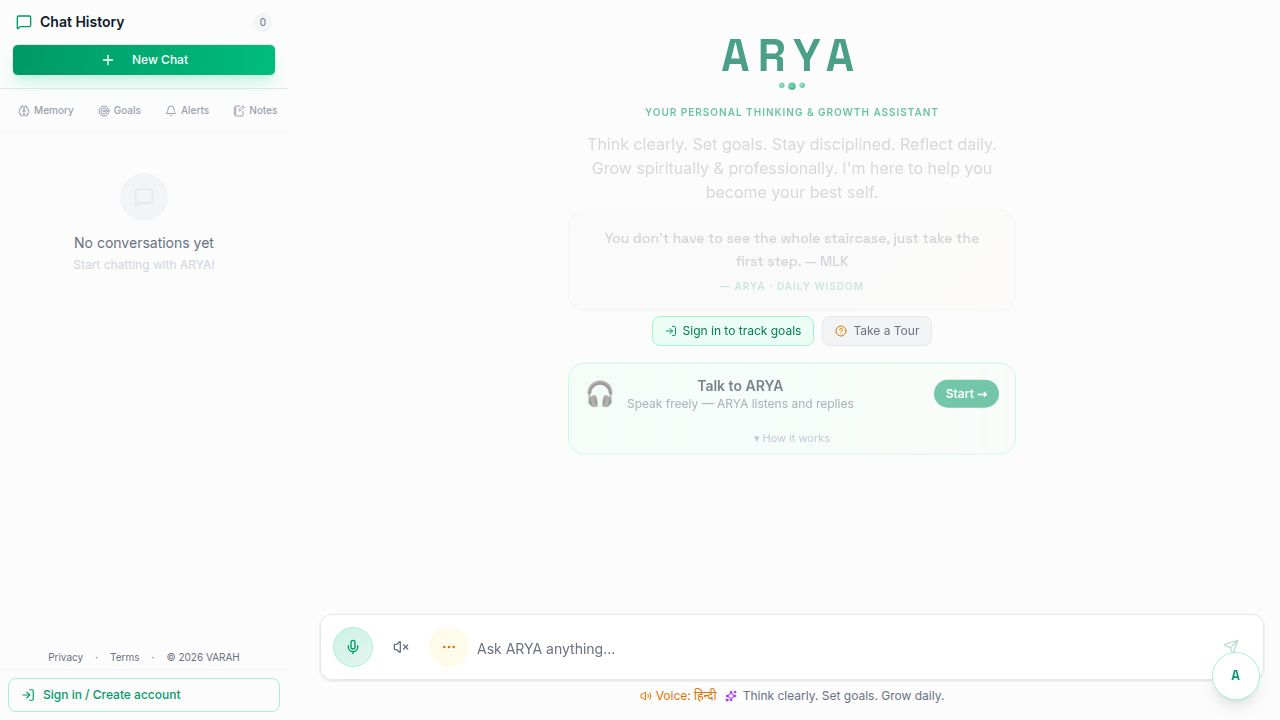
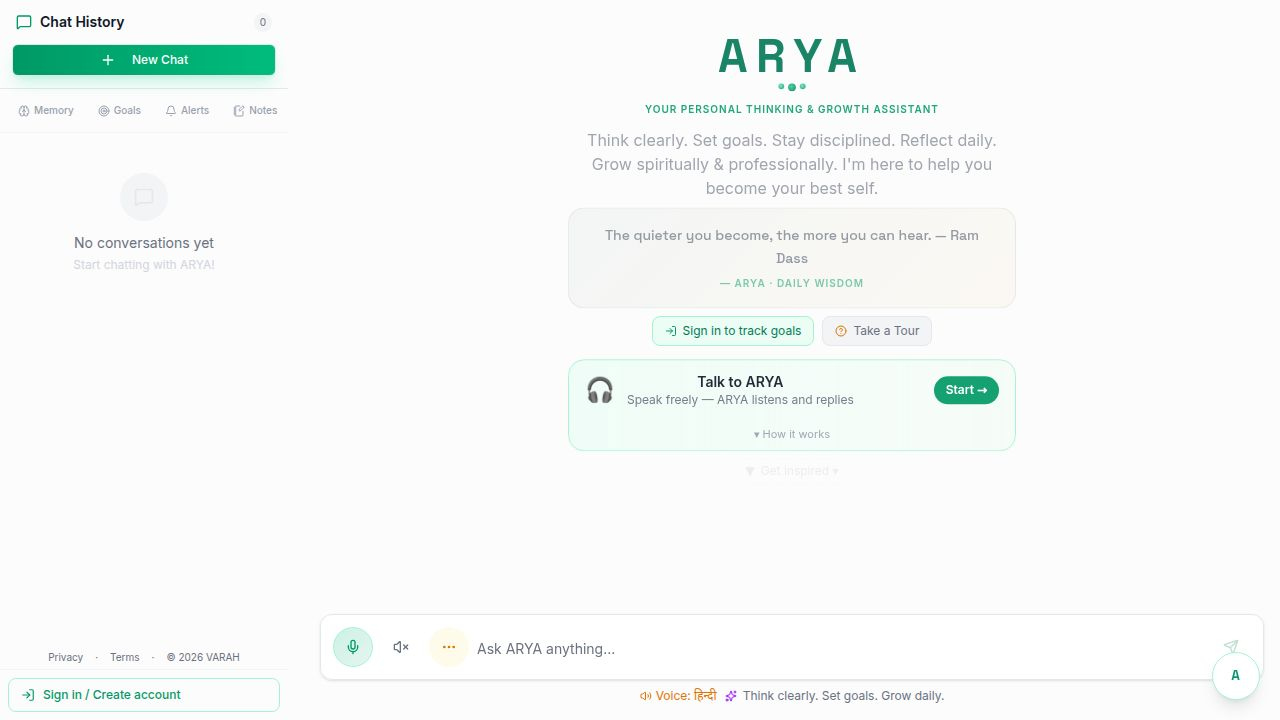
Improve chat interface layout and daily quote card appearance
Reduce padding and font sizes in the DailyQuoteCard component and refine spacing in the welcome screen layout of AryaChat.tsx.

Replit-Commit-Author: Agent
Replit-Commit-Session-Id: 7b145150-db39-47d4-af7e-e2ff8b1b403d
Replit-Commit-Checkpoint-Type: full_checkpoint
Replit-Commit-Event-Id: a71f6b2d-880a-4fe9-b9ec-299a93b58b13
Replit-Commit-Screenshot-Url: https://storage.googleapis.com/screenshot-production-us-central1/9228cbc9-64ab-41d4-8aa4-89fc651b90ae/7b145150-db39-47d4-af7e-e2ff8b1b403d/HRvDzd0
Replit-Helium-Checkpoint-Created: true

diff --git a/client/src/pages/AryaChat.tsx b/client/src/pages/AryaChat.tsx
@@ -2162,21 +2162,21 @@ function DailyQuoteCard({ token }: { token: string | null }) {
         initial={{ opacity: 0, y: 8 }}
         animate={{ opacity: 1, y: 0 }}
         transition={{ duration: 0.5, delay: 0.3 }}
-        className="w-full max-w-md mx-auto mb-2 md:mb-3 rounded-2xl overflow-hidden"
+        className="w-full max-w-md mx-auto mb-1.5 rounded-xl overflow-hidden"
         style={{
           background: "linear-gradient(135deg, rgba(6,78,59,0.07) 0%, rgba(245,158,11,0.07) 100%)",
           border: "1px solid rgba(6,78,59,0.14)",
         }}
       >
-        <div className="px-4 py-3 md:px-5 md:py-4">
+        <div className="px-3 py-2">
           <p
-            className="text-sm leading-relaxed text-gray-700 dark:text-gray-200 font-medium mb-1.5"
+            className="text-xs leading-snug text-gray-700 dark:text-gray-200 font-medium mb-1"
             style={{ fontFamily: "'Space Grotesk', sans-serif" }}
             data-testid="text-daily-quote"
           >
             {STATIC_HOME_QUOTES[staticQuoteIdx]}
           </p>
-          <p className="text-[10px] uppercase tracking-widest text-emerald-600 dark:text-emerald-400 font-semibold">
+          <p className="text-[9px] uppercase tracking-widest text-emerald-600 dark:text-emerald-400 font-semibold">
             — ARYA · daily wisdom
           </p>
         </div>
@@ -2190,32 +2190,32 @@ function DailyQuoteCard({ token }: { token: string | null }) {
       initial={{ opacity: 0, y: 8 }}
       animate={{ opacity: 1, y: 0 }}
       transition={{ duration: 0.5, delay: 0.25 }}
-      className="w-full max-w-md mx-auto mb-2 md:mb-3 rounded-2xl overflow-hidden"
+      className="w-full max-w-md mx-auto mb-1.5 rounded-xl overflow-hidden"
       style={{
         background: "linear-gradient(135deg, rgba(6,78,59,0.06) 0%, rgba(245,158,11,0.06) 100%)",
         border: "1px solid rgba(6,78,59,0.12)",
       }}
     >
-      <div className="px-4 py-3 md:px-5 md:py-4">
+      <div className="px-3 py-2">
         {isLoading ? (
-          <div className="flex items-center gap-2 py-1">
-            <Loader2 className="w-3.5 h-3.5 animate-spin text-emerald-600 dark:text-emerald-400" />
-            <span className="text-xs text-gray-400 dark:text-gray-500 italic">Preparing your reflection for today…</span>
+          <div className="flex items-center gap-2 py-0.5">
+            <Loader2 className="w-3 h-3 animate-spin text-emerald-600 dark:text-emerald-400" />
+            <span className="text-[11px] text-gray-400 dark:text-gray-500 italic">Preparing your reflection…</span>
           </div>
         ) : (
           <motion.div
-            initial={{ opacity: 0, y: 6 }}
+            initial={{ opacity: 0, y: 4 }}
             animate={{ opacity: 1, y: 0 }}
-            transition={{ duration: 0.25 }}
+            transition={{ duration: 0.2 }}
           >
             <p
-              className="text-sm leading-relaxed text-gray-700 dark:text-gray-200 font-medium mb-1.5 break-words"
+              className="text-xs leading-snug text-gray-700 dark:text-gray-200 font-medium mb-1 break-words"
               style={{ fontFamily: "'Space Grotesk', sans-serif" }}
               data-testid="text-daily-quote"
             >
               {quoteText}
             </p>
-            <p className="text-[10px] uppercase tracking-widest text-emerald-600 dark:text-emerald-400 font-semibold" data-testid="text-quote-source">
+            <p className="text-[9px] uppercase tracking-widest text-emerald-600 dark:text-emerald-400 font-semibold" data-testid="text-quote-source">
               — {quoteSource}
             </p>
           </motion.div>
@@ -2227,24 +2227,21 @@ function DailyQuoteCard({ token }: { token: string | null }) {
 
 function TalkToARYACard({ onStart, uiLang = "en" }: { onStart: () => void; uiLang?: UiLanguage }) {
   const tl = (key: string) => getTranslation(uiLang, key);
-  const [expanded, setExpanded] = useState(false);
   return (
     <motion.div
       initial={{ opacity: 0, y: 8 }}
       animate={{ opacity: 1, y: 0 }}
       transition={{ duration: 0.3, delay: 0.25 }}
-      className="w-full max-w-md mb-2 rounded-2xl border border-emerald-200 dark:border-emerald-800/60 bg-gradient-to-r from-emerald-50/80 to-green-50/50 dark:from-emerald-950/40 dark:to-green-950/20 overflow-hidden"
+      className="w-full max-w-md mb-1.5 rounded-xl border border-emerald-200 dark:border-emerald-800/60 bg-gradient-to-r from-emerald-50/80 to-green-50/50 dark:from-emerald-950/40 dark:to-green-950/20"
     >
-      <div className="flex items-center justify-between gap-3 px-4 py-3">
-        <div className="flex items-center gap-3 flex-1 min-w-0">
-          <span className="text-2xl flex-shrink-0">🎧</span>
-          <div className="min-w-0">
-            <div className="text-sm font-semibold text-gray-900 dark:text-white truncate">
-              {tl("talk_arya_title")}
-            </div>
-            <div className="text-xs text-gray-500 dark:text-gray-400 truncate">
-              {tl("talk_arya_sub")}
-            </div>
+      <div className="flex items-center gap-3 px-3 py-2.5">
+        <span className="text-xl flex-shrink-0">🎧</span>
+        <div className="min-w-0 flex-1">
+          <div className="text-xs font-semibold text-gray-900 dark:text-white truncate">
+            {tl("talk_arya_title")}
+          </div>
+          <div className="text-[11px] text-gray-500 dark:text-gray-400 truncate">
+            {tl("talk_arya_sub")}
           </div>
         </div>
         <button
@@ -2255,43 +2252,6 @@ function TalkToARYACard({ onStart, uiLang = "en" }: { onStart: () => void; uiLan
           {tl("talk_arya_start")}
         </button>
       </div>
-      <button
-        onClick={() => setExpanded(v => !v)}
-        className="w-full text-center text-[11px] text-gray-400 dark:text-gray-500 hover:text-gray-600 dark:hover:text-gray-300 pb-2 transition-colors"
-        data-testid="button-talk-arya-expand"
-      >
-        {expanded ? "▲ Hide" : "▾ How it works"}
-      </button>
-      <AnimatePresence initial={false}>
-        {expanded && (
-          <motion.div
-            initial={{ height: 0, opacity: 0 }}
-            animate={{ height: "auto", opacity: 1 }}
-            exit={{ height: 0, opacity: 0 }}
-            transition={{ duration: 0.22 }}
-            style={{ overflow: "hidden" }}
-            className="px-4 pb-3 border-t border-emerald-100 dark:border-emerald-800/40"
-          >
-            <div className="pt-2 space-y-1.5">
-              {[
-                "Tap Start — ARYA listens",
-                "Speak naturally in your language",
-                "ARYA thinks and speaks back",
-              ].map((step, i) => (
-                <div key={i} className="flex items-center gap-2.5 text-xs text-gray-600 dark:text-gray-300">
-                  <span className="w-5 h-5 rounded-full bg-emerald-600 text-white flex items-center justify-center text-[10px] font-bold flex-shrink-0">
-                    {i + 1}
-                  </span>
-                  <span>{step}</span>
-                </div>
-              ))}
-              <div className="mt-1.5 text-[11px] text-gray-400 dark:text-gray-500 bg-emerald-50 dark:bg-emerald-950/30 rounded-lg px-2.5 py-1.5">
-                🎙 No typing needed. Hands-free. Works in Hindi, Tamil, Malayalam and 8 more languages.
-              </div>
-            </div>
-          </motion.div>
-        )}
-      </AnimatePresence>
     </motion.div>
   );
 }
@@ -2300,8 +2260,9 @@ function MoodCheckInCard({ token, onComplete, uiLang = "en" }: { token: string; 
   const tl = (key: string) => getTranslation(uiLang, key);
   const [mood, setMood] = useState<number | null>(null);
   const [energy, setEnergy] = useState(3);
-  const [note, setNote] = useState("");
   const [saving, setSaving] = useState(false);
+  // Start collapsed — just a single row prompt. Expands when user picks a mood.
+  const [expanded, setExpanded] = useState(false);
 
   const moods = [
     { value: 1, emoji: "😞", label: tl("mood_rough") },
@@ -2311,6 +2272,11 @@ function MoodCheckInCard({ token, onComplete, uiLang = "en" }: { token: string; 
     { value: 5, emoji: "😊", label: tl("mood_great") },
   ];
 
+  const handleMoodSelect = (value: number) => {
+    setMood(value);
+    setExpanded(true);
+  };
+
   const handleSave = async () => {
     if (!mood) return;
     setSaving(true);
@@ -2318,7 +2284,7 @@ function MoodCheckInCard({ token, onComplete, uiLang = "en" }: { token: string; 
       await fetch("/api/user/mood", {
         method: "POST",
         headers: { "Content-Type": "application/json", "x-user-token": token },
-        body: JSON.stringify({ mood, energy, note: note || undefined }),
+        body: JSON.stringify({ mood, energy }),
       });
       localStorage.setItem("arya_mood_date", new Date().toDateString());
       onComplete();
@@ -2329,64 +2295,78 @@ function MoodCheckInCard({ token, onComplete, uiLang = "en" }: { token: string; 
   return (
     <motion.div
       data-testid="card-mood-checkin"
-      initial={{ opacity: 0, y: 10 }}
+      initial={{ opacity: 0, y: 6 }}
       animate={{ opacity: 1, y: 0 }}
-      transition={{ duration: 0.3 }}
-      className="w-full max-w-md mx-auto mb-2 px-3 py-2.5 rounded-xl bg-gradient-to-br from-amber-50/80 to-orange-50/60 dark:from-amber-950/30 dark:to-orange-950/20 border border-amber-200 dark:border-amber-800"
+      transition={{ duration: 0.25 }}
+      className="w-full max-w-md mx-auto mb-1.5 rounded-xl bg-amber-50/60 dark:bg-amber-950/20 border border-amber-200/70 dark:border-amber-800/60 overflow-hidden"
     >
-      <div className="flex items-center justify-between mb-2">
-        <div className="flex items-center gap-1.5">
-          <Smile className="w-3.5 h-3.5 text-amber-600 dark:text-amber-400" />
-          <span className="text-xs font-semibold text-gray-800 dark:text-gray-200">{tl("daily_checkin")}</span>
-          <span className="text-[10px] text-gray-400 dark:text-gray-500 hidden sm:inline">— {tl("how_feeling")}</span>
+      {/* ── Compact trigger row — always visible ── */}
+      <div className="flex items-center gap-2 px-3 py-2">
+        <span className="text-[11px] text-gray-500 dark:text-gray-400 flex-shrink-0 font-medium">{tl("how_feeling")}</span>
+        <div className="flex items-center gap-1 flex-1">
+          {moods.map(m => (
+            <button
+              key={m.value}
+              data-testid={`button-mood-${m.value}`}
+              onClick={() => handleMoodSelect(m.value)}
+              title={m.label}
+              className={`flex-1 flex items-center justify-center py-0.5 rounded-lg text-base leading-none transition-all active:scale-90 ${
+                mood === m.value
+                  ? "bg-amber-100 dark:bg-amber-900/50 ring-1 ring-amber-400 dark:ring-amber-600"
+                  : "hover:bg-white/70 dark:hover:bg-slate-800/50"
+              }`}
+            >
+              {m.emoji}
+            </button>
+          ))}
         </div>
-        <button onClick={onComplete} className="text-gray-300 hover:text-gray-500 dark:hover:text-gray-300 p-0.5 rounded transition-colors" data-testid="button-skip-checkin">
+        <button
+          onClick={onComplete}
+          className="text-gray-300 hover:text-gray-500 dark:hover:text-gray-400 p-0.5 rounded transition-colors flex-shrink-0"
+          data-testid="button-skip-checkin"
+        >
           <X className="w-3 h-3" />
         </button>
       </div>
 
-      <div className="flex items-center justify-between gap-1 mb-2">
-        {moods.map(m => (
-          <button
-            key={m.value}
-            data-testid={`button-mood-${m.value}`}
-            onClick={() => setMood(m.value)}
-            className={`flex-1 flex flex-col items-center gap-0.5 py-1 rounded-lg transition-all ${
-              mood === m.value
-                ? "bg-amber-100 dark:bg-amber-900/40 ring-1 ring-amber-400 dark:ring-amber-600"
-                : "hover:bg-white/60 dark:hover:bg-slate-800/60"
-            }`}
+      {/* ── Expanded: energy slider + save — only after a mood is picked ── */}
+      <AnimatePresence initial={false}>
+        {expanded && (
+          <motion.div
+            initial={{ height: 0, opacity: 0 }}
+            animate={{ height: "auto", opacity: 1 }}
+            exit={{ height: 0, opacity: 0 }}
+            transition={{ duration: 0.2 }}
+            style={{ overflow: "hidden" }}
           >
-            <span className="text-base leading-none">{m.emoji}</span>
-            <span className="text-[8px] text-gray-400 dark:text-gray-500 leading-tight hidden sm:block">{m.label}</span>
-          </button>
-        ))}
-      </div>
-
-      <div className="flex items-center gap-2 mb-2">
-        <span className="text-[10px] text-gray-400 dark:text-gray-500 flex items-center gap-0.5 flex-shrink-0">
-          <Zap className="w-2.5 h-2.5 text-amber-500" /> {tl("energy_level")}
-        </span>
-        <input
-          type="range" min={1} max={5} value={energy}
-          onChange={e => setEnergy(Number(e.target.value))}
-          data-testid="slider-energy"
-          className="flex-1 accent-amber-500 h-1 rounded"
-        />
-        <span className="text-[10px] font-medium text-amber-600 dark:text-amber-400 flex-shrink-0 w-14 text-right">
-          {["", tl("energy_drained"), tl("energy_low"), tl("energy_okay"), tl("energy_good"), tl("energy_energized")][energy]}
-        </span>
-      </div>
-
-      <button
-        onClick={handleSave}
-        disabled={!mood || saving}
-        data-testid="button-save-checkin"
-        className="w-full py-1.5 rounded-lg bg-gradient-to-r from-amber-500 to-orange-400 text-white text-xs font-semibold hover:from-amber-400 hover:to-orange-300 disabled:opacity-40 disabled:cursor-not-allowed transition-all flex items-center justify-center gap-1.5"
-      >
-        {saving ? <Loader2 className="w-3 h-3 animate-spin" /> : <Check className="w-3 h-3" />}
-        {saving ? "Saving…" : tl("save_checkin")}
-      </button>
+            <div className="px-3 pb-2.5 border-t border-amber-200/60 dark:border-amber-800/40 pt-2 space-y-2">
+              <div className="flex items-center gap-2">
+                <span className="text-[10px] text-gray-400 dark:text-gray-500 flex items-center gap-0.5 flex-shrink-0">
+                  <Zap className="w-2.5 h-2.5 text-amber-500" /> {tl("energy_level")}
+                </span>
+                <input
+                  type="range" min={1} max={5} value={energy}
+                  onChange={e => setEnergy(Number(e.target.value))}
+                  data-testid="slider-energy"
+                  className="flex-1 accent-amber-500 h-1 rounded"
+                />
+                <span className="text-[10px] font-medium text-amber-600 dark:text-amber-400 flex-shrink-0 w-14 text-right">
+                  {["", tl("energy_drained"), tl("energy_low"), tl("energy_okay"), tl("energy_good"), tl("energy_energized")][energy]}
+                </span>
+              </div>
+              <button
+                onClick={handleSave}
+                disabled={saving}
+                data-testid="button-save-checkin"
+                className="w-full py-1.5 rounded-lg bg-gradient-to-r from-amber-500 to-orange-400 text-white text-xs font-semibold hover:from-amber-400 hover:to-orange-300 disabled:opacity-50 transition-all flex items-center justify-center gap-1.5"
+              >
+                {saving ? <Loader2 className="w-3 h-3 animate-spin" /> : <Check className="w-3 h-3" />}
+                {saving ? "Saving…" : tl("save_checkin")}
+              </button>
+            </div>
+          </motion.div>
+        )}
+      </AnimatePresence>
     </motion.div>
   );
 }
@@ -4501,7 +4481,7 @@ export default function AryaChat() {
               {t("welcome_desc")}
             </motion.p>
             <DailyQuoteCard token={token} />
-            <div className="flex items-center gap-2 mb-3">
+            <div className="flex items-center gap-2 mb-1.5">
               {!isLoggedIn && (
                 <button
                   data-testid="button-welcome-signin"
